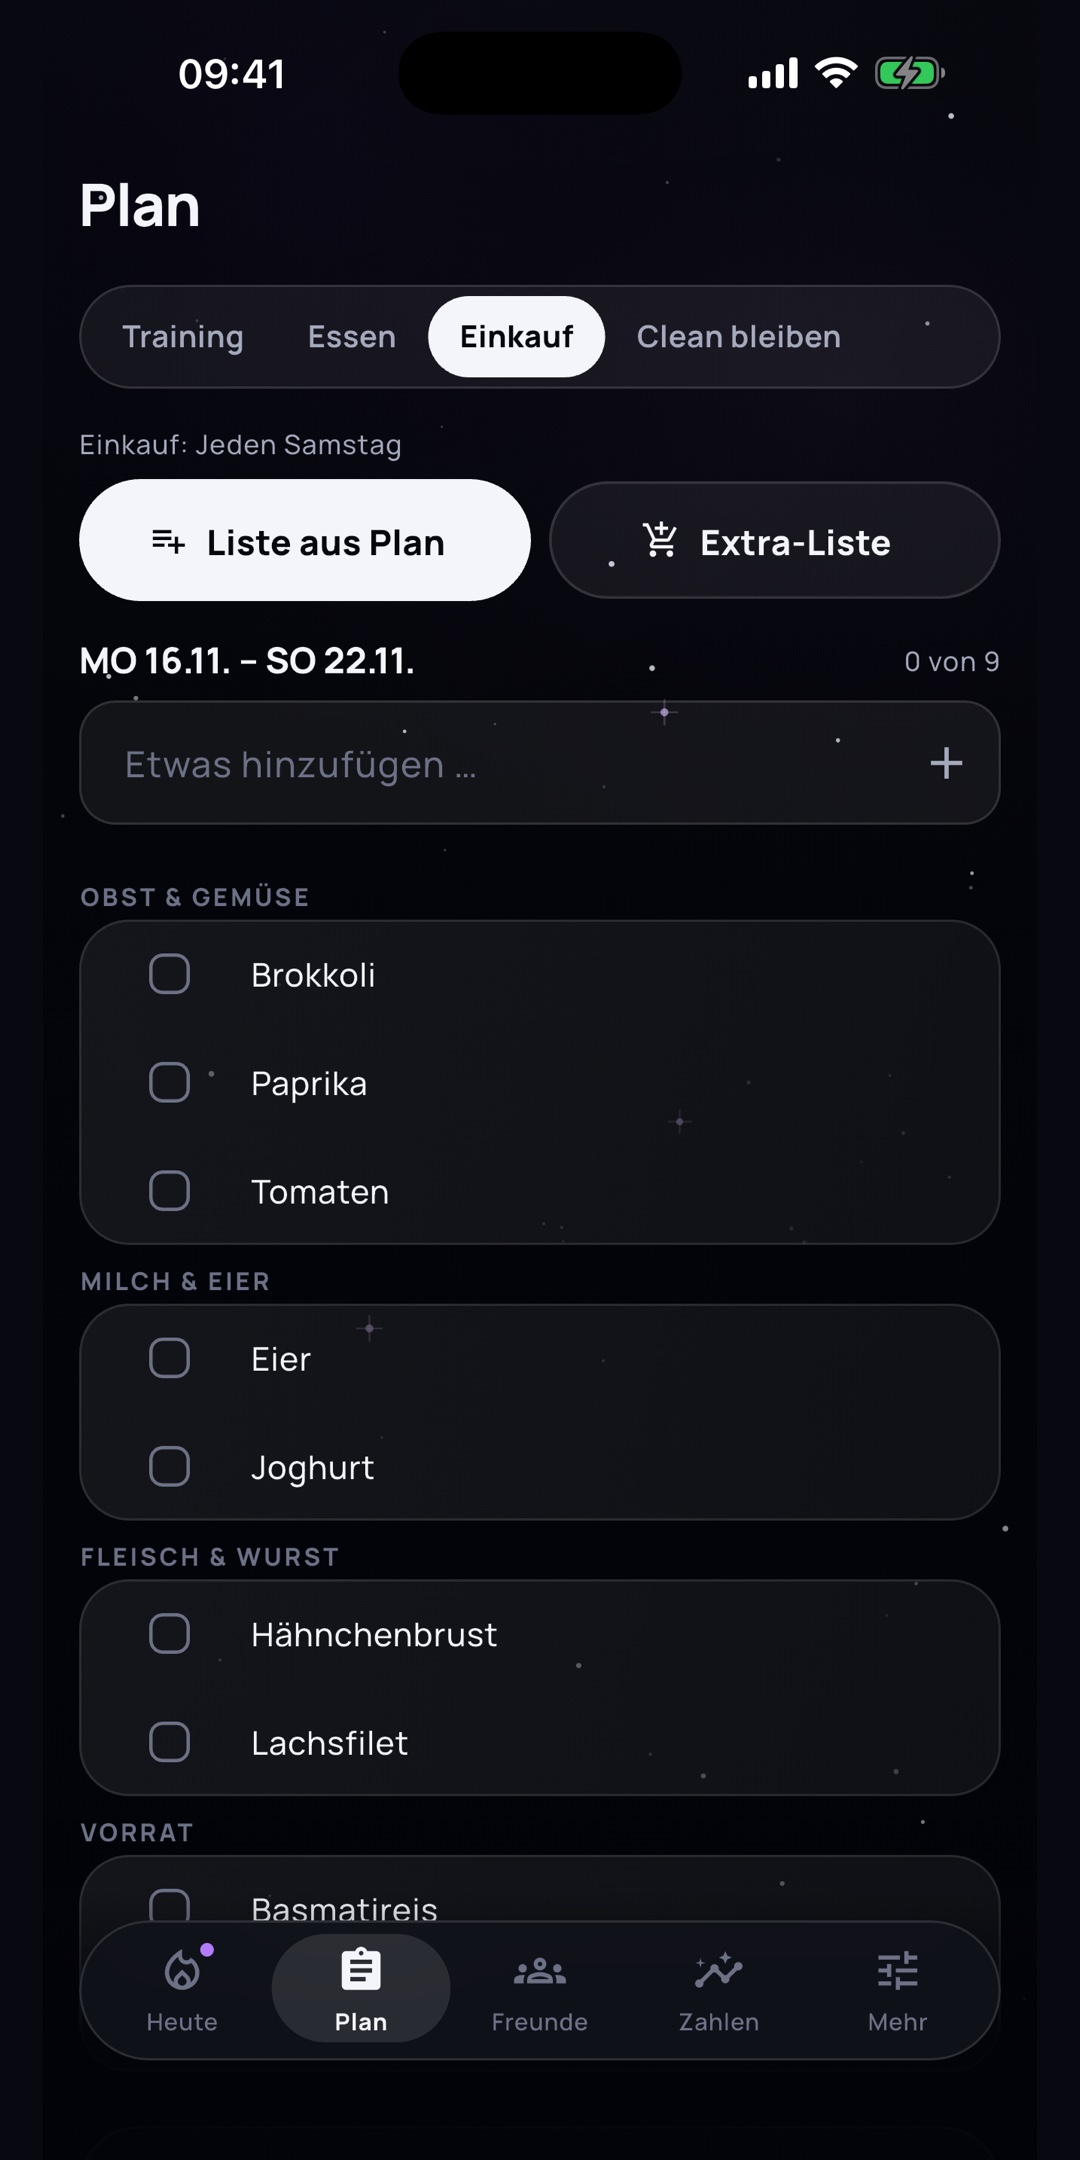
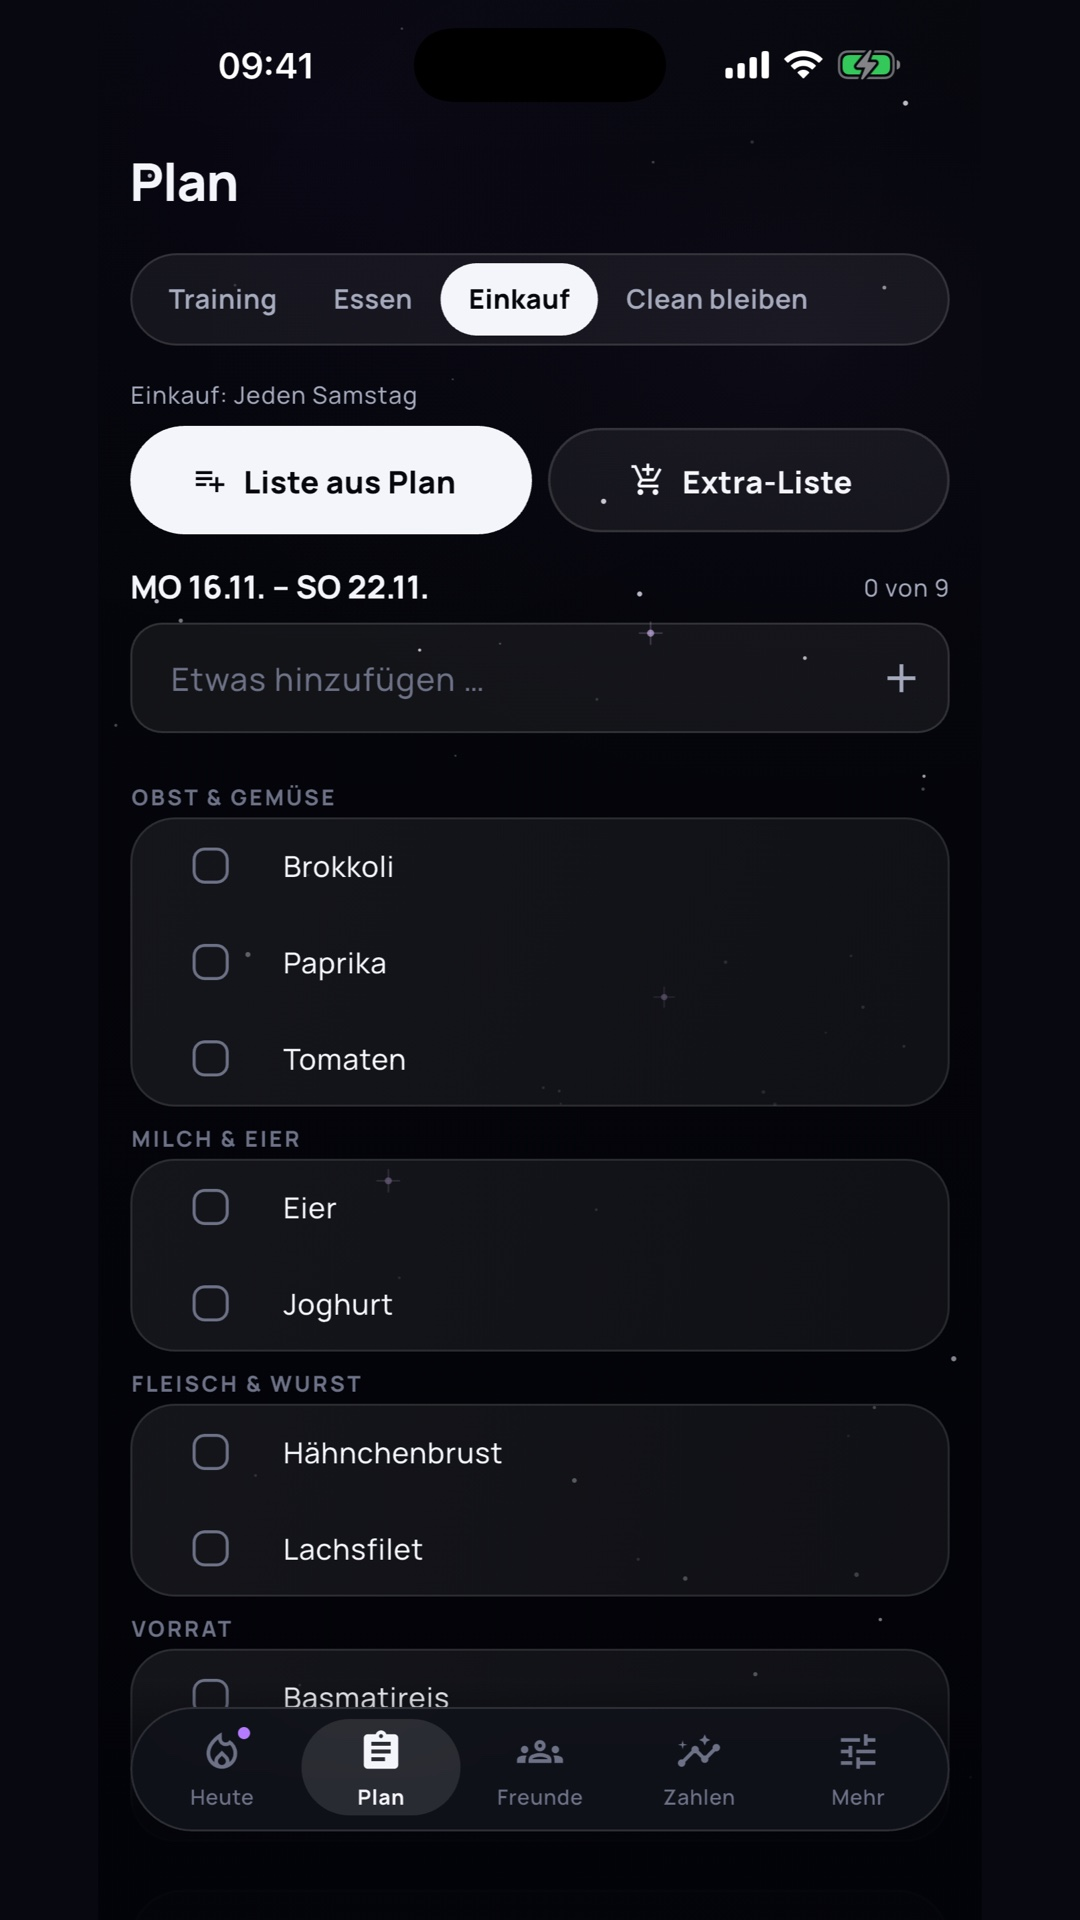
Play listing: en-GB as the default language, 9:16 screenshots
The listing's default language in the Play Console is en-GB, which had
no text, and Play wants phone screenshots in 9:16.

diff --git a/docs/stores.md b/docs/stores.md
@@ -55,7 +55,8 @@ flutter run -t lib/main_demo.dart --dart-define=DEMO_LOCALE=en
 The store screenshots are taken from it on an iPhone 17 Pro Max simulator
 (1320×2868) with the status bar set to 9:41
 (`xcrun simctl status_bar <device> override --time 9:41 …`); the Play ones
-are the same images padded to 2:1 and scaled to 1080×2160.
+are the same images padded to 9:16 and scaled to 1080×1920. Play's default
+listing language is en-GB, so `en-GB` is a copy of `en-US`.
 
 ## Review accounts
 
